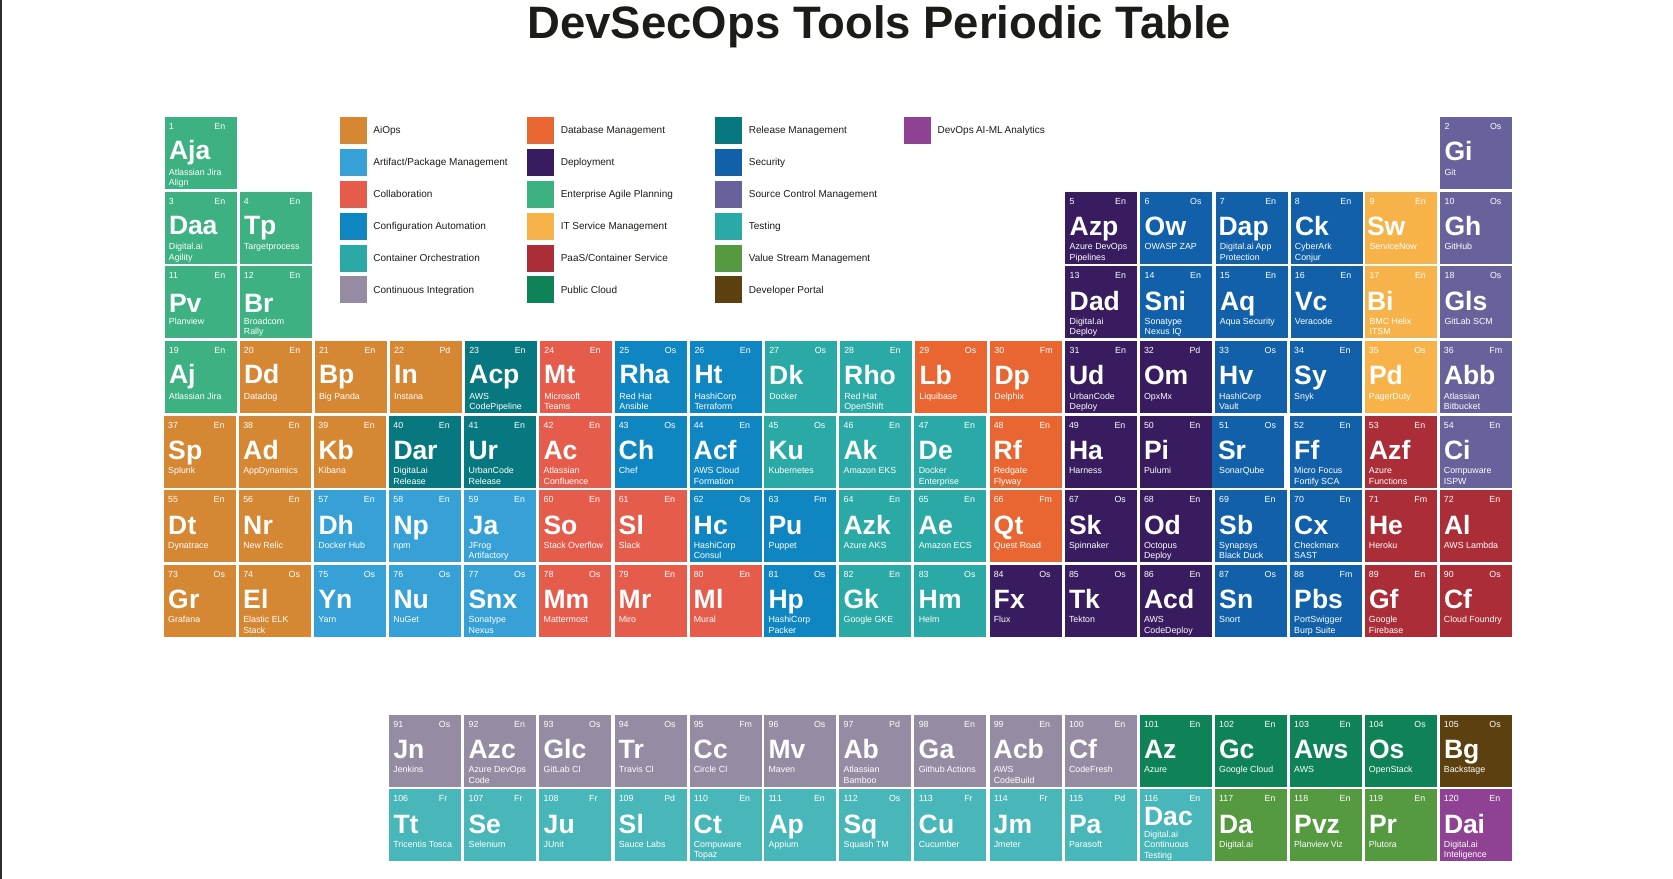
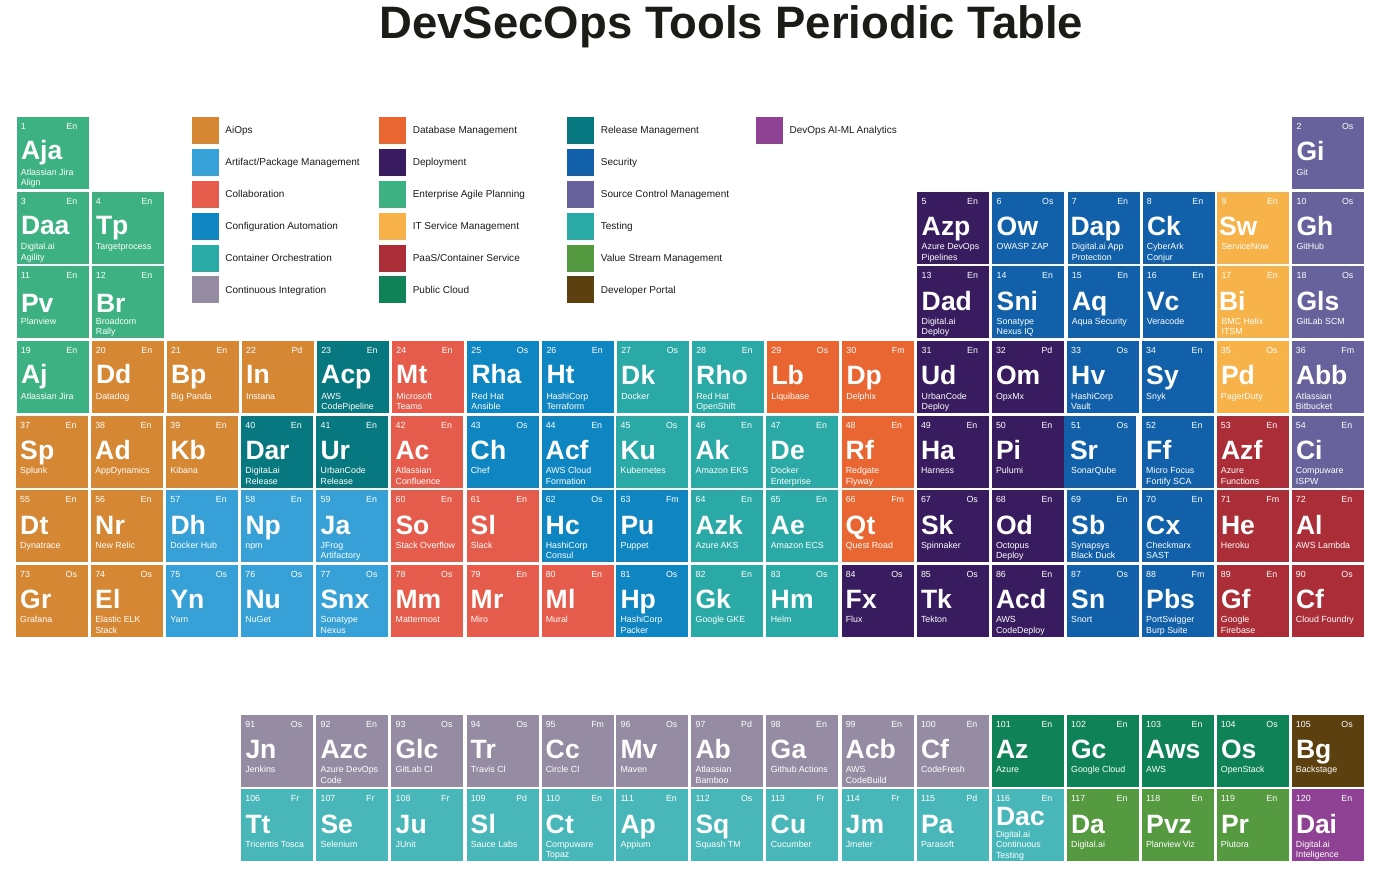
tweaks

diff --git a/content/posts/2025/periodic-table-devops-2025.md b/content/posts/2025/periodic-table-devops-2025.md
@@ -11,6 +11,7 @@ tags = ["Chemistry", "DevOps",  "Tools"]
 category="tech"
 keywords = ["", ""]
 description =  "Periodic Table of DevOps 2025"
+description = "Compare DevOps tools from 2016 to 2025 and discover key trends shaping modern software development."
 showFullContent = false
 readingTime = true
 copyright = false
@@ -21,38 +22,58 @@ aliases = [
     "/2025/09/29/periodic-table-devops-2025"
 ]
 +++
+
+DevOps has transformed the way teams build, deploy, and manage software. Over the years, the tools we use have evolved rapidly—some have become industry standards, while others have faded away or emerged to solve new challenges. In this post, I revisit the concept of a "Periodic Table of DevOps" to compare the landscape in 2016 with 2025, highlight key changes, and reflect on what these shifts mean for developers, IT professionals, and organizations embracing modern workflows.
+
 The periodic table lists all the chemical elements and groups them together based on some key properties. In 2016 I found an article about the [periodic table of DevOps](https://xebialabs.com/periodic-table-of-devops-tools/) and wrote a blog [post](/posts/2016/periodic-table-devops/) about it.
+
+### Periodic Table of DevOps Tools 2025
 
 ![Periodic Table of DevOps 2025](/images/2025/periodic-table-devops-2025.png)
 
+### Periodic Table of DevOps Tools 2016
+
+![Periodic Table of DevOps 2016](/images/2016/periodic-table-of-devops-v2.png)
+
 I thought it might be interesting to see what tools are still in use, and what are new.
 
-| Tool       | 2016 | 2025 | Comments |
-| ---        | ---  | ---  | ---      |
-| Git        | 3    | 2    | The primary source control tool has moved from position 3 to 2, no surprises it is still used so widely for versioning scripts, code and config |
-| GitHub     | 1    | 10   | The most widely used web based git repository |
-| Bitbucket  | 11   | 36   |          |
-| Subversion | 37   |      | Subversion was the first source control system I every used and is no longer on the table, replaced by Git for most uses |
-| Azure      | 10   | 101  |          |
-| AWS        | 2    | 103  |          |
-| GCP        | 18   | 102  | Google Cloud |
-| Docker     | 9    | 27   |          |
-| Kubernetes | 71   | 45   |          |
-| Helm       |      | 83   | Helm charts, the packaging system for kubernetes doesn't look to be on the table in 2016 |
-| Npm        | 45   | 58   |          |
-| Nuget      |      | 76   |          |
-| MSBuild    | 75   |      |          |
-| Grafana    |      | 73   |          |
-| Jira       | 100  | 19   |          |
-| Nagios     | 108  |      |          |
-| DataDog    | 110  | 20   |          |
-| ElasticSearch | 111 |    |          |
-| Slack      | 102  | 61   |          |
-| TeamCity   | 64   |      |          |
-| Jenkins    | 29   | 91   |          |
-| Visual Studio | 47 |     |          |
-| Terraform  | 16   |      |          |
-| Team Foundation | 98 |     |          |
-| Azure DevOps Code |      | 92 |          |
-| Azure DevOps Pipelines |   | 5  |          |
-| MS Teams   |      | 24   |          |
+## Source Control
+
+Git the most popular source control system is on both charts, in 2016 it was at position 3, and in 2025 it is at 2.
+GitHub the most widely used web based git repository is also on both charts, moving from 1 to 10.
+Bitbucket (now owned by Atlassian) was a hosted git repository I used to use and is still on the chart, moving from 11 to 36.
+Subversion a source control system I started my career with, has vanished off the chart in 2025. Not really a surprise due to the popularity of git now.
+
+## Cloud Platforms
+
+In 2016 we had a whole column of Cloud Platforms, including Rackspace and OpenShift, in 2025 this has been reduced to the big three (Azure, AWS and GCP) plus OpenSHift.
+
+## Containerization
+
+In 2016 we had a column of tools like Docker, Docker Swarm and Kubernetes. In 2025 there are far more tools in this space, with the addition of tools like Helm and the various ways you can host containers on cloud platforms (like Azure AKS)
+
+## Build and Deploy tools
+
+In 2016 Azure DevOps was still called Team Foundation Server, so this has spread out into the various ways you can use azure devops, eg Pipelines, Code etc. Also since 2016 Github actions has appeared on the market.
+
+In 2016 I was also dabbling with TeamCity, this is no longer used that much so isn't on the chart in 2025. Jenkins is still around on both charts.
+
+## Comms Tools
+
+In 2025 Slack and MS Teams are the goto tools for communicating with distributed teams, Slack was around in 2016, but Teams wasn't a thing back then.
+
+## New Tools
+
+New tools for monitoring like Grafana have appeared, ten years ago I was exclusively using Application Insights from Azure.
+
+## Conclusion & Key Takeaways
+
+The DevOps landscape has changed dramatically over the past decade. Some tools have stood the test of time, while others have faded or emerged to meet new challenges. Here are the key takeaways:
+
+- **Git remains the backbone of source control**, with platforms like GitHub and Bitbucket continuing to thrive.
+- **Cloud platforms (Azure, AWS, GCP) have become central**, reflecting the shift to cloud-native development and operations.
+- **Containerization and orchestration (Docker, Kubernetes, Helm) are now essential**, enabling scalable, flexible deployments.
+- **Monitoring and collaboration tools have evolved**, with newcomers like Grafana and MS Teams joining established solutions.
+- **Legacy tools are disappearing**, showing the importance of adaptability in tech.
+
+As DevOps continues to evolve, staying curious and open to new tools is key. The periodic table analogy reminds us that the right mix of technologies can empower teams to build, deploy, and manage software more effectively. What tools will shape the next decade? Only time will tell.
